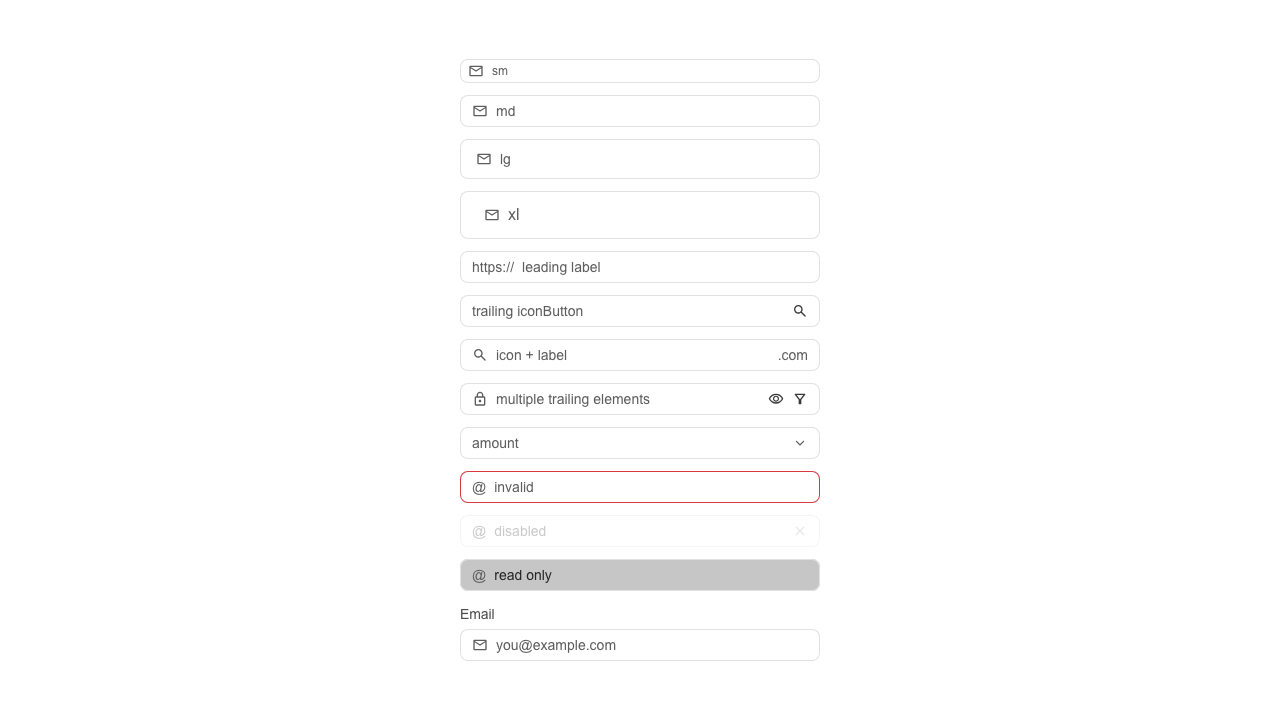
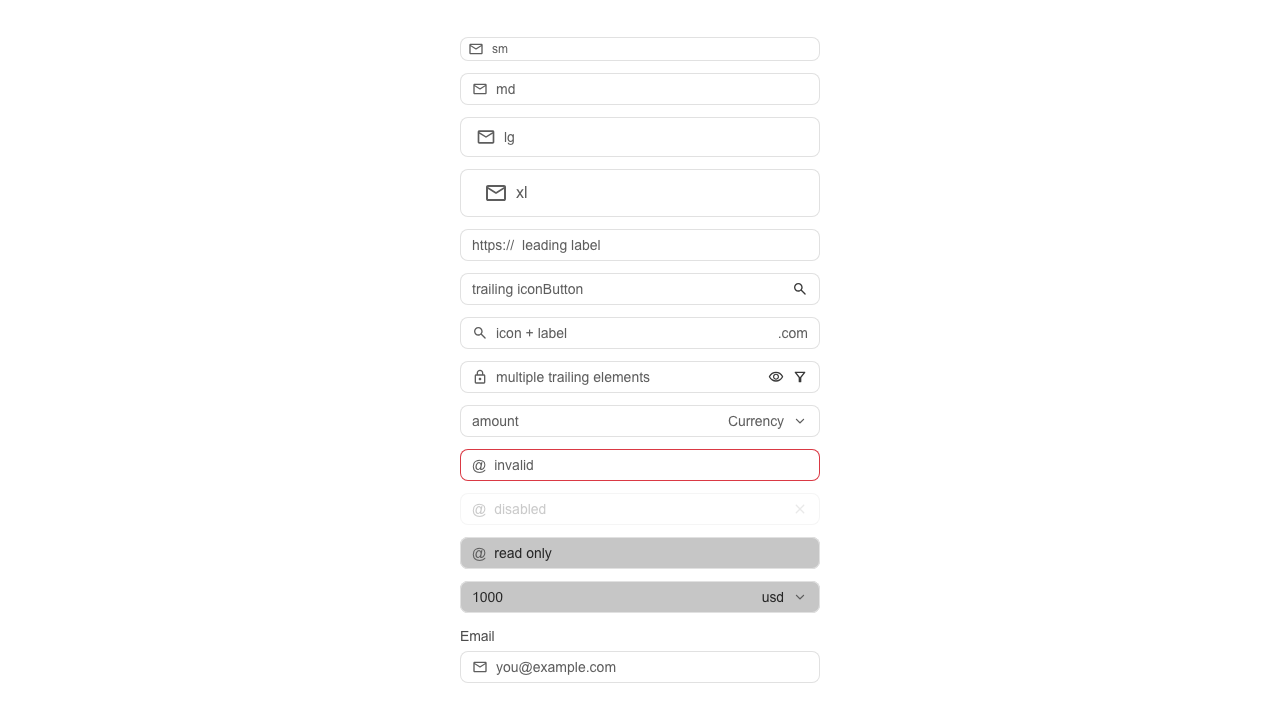
feat(input-group): add IconButton part and mirror readOnly visual via :has
- `InputGroup.IconButton` 파트 신설. 기본 render 가 IconButton 이고 그룹의 compact
  밀도에 맞춰 크기가 정렬된다. `InputGroup.Button` 과 layer/상태 정의를 공유한다.
- readOnly 시각 앵커를 Root 자기 prop 에서 `:has([data-readonly])` 로 전환해
  invalid 와 대칭을 맞췄다. 그룹에 편입한 `Select.Root readOnly` 도 배경이 함께 켜진다.
- addon 에 직접 든 bare 아이콘을 IconButton 아이콘과 같은 compactIconSize 로 스케일.
- 스토리·문서 데모를 새 파트로 dogfooding 하고 시각 회귀 스냅샷 4종을 갱신했다.

Changed region(s): [[0.3438, 0.0611, 0.6562, 0.9472], [0.5625, 0.3667, 0.6562, 0.6417]]

diff --git a/packages/core/src/components/input-group/input-group.stories.tsx b/packages/core/src/components/input-group/input-group.stories.tsx
@@ -80,12 +80,13 @@ export const TestBed: Story = {
             <InputGroup.Root>
                 <InputGroup.Input placeholder="trailing iconButton" />
                 <InputGroup.TrailingAddon>
-                    <InputGroup.Button
+                    <InputGroup.IconButton
                         aria-label="search"
-                        render={<IconButton variant="ghost" colorPalette="contrast" />}
+                        variant="ghost"
+                        colorPalette="contrast"
                     >
                         <SearchOutlineIcon />
-                    </InputGroup.Button>
+                    </InputGroup.IconButton>
                 </InputGroup.TrailingAddon>
             </InputGroup.Root>
 
@@ -104,18 +105,20 @@ export const TestBed: Story = {
                 </InputGroup.LeadingAddon>
                 <InputGroup.Input type="password" placeholder="multiple trailing elements" />
                 <InputGroup.TrailingAddon>
-                    <InputGroup.Button
+                    <InputGroup.IconButton
                         aria-label="Toggle visibility"
-                        render={<IconButton variant="ghost" colorPalette="contrast" />}
+                        variant="ghost"
+                        colorPalette="contrast"
                     >
                         <ViewOnOutlineIcon />
-                    </InputGroup.Button>
-                    <InputGroup.Button
+                    </InputGroup.IconButton>
+                    <InputGroup.IconButton
                         aria-label="Filter"
-                        render={<IconButton variant="ghost" colorPalette="contrast" />}
+                        variant="ghost"
+                        colorPalette="contrast"
                     >
                         <FilterOutlineIcon />
-                    </InputGroup.Button>
+                    </InputGroup.IconButton>
                 </InputGroup.TrailingAddon>
             </InputGroup.Root>
 
@@ -144,12 +147,13 @@ export const TestBed: Story = {
                 <InputGroup.LeadingAddon>@</InputGroup.LeadingAddon>
                 <InputGroup.Input placeholder="disabled" />
                 <InputGroup.TrailingAddon>
-                    <InputGroup.Button
+                    <InputGroup.IconButton
                         aria-label="clear"
-                        render={<IconButton variant="ghost" colorPalette="contrast" />}
+                        variant="ghost"
+                        colorPalette="contrast"
                     >
                         <CloseOutlineIcon />
-                    </InputGroup.Button>
+                    </InputGroup.IconButton>
                 </InputGroup.TrailingAddon>
             </InputGroup.Root>
 
@@ -157,6 +161,21 @@ export const TestBed: Story = {
             <InputGroup.Root readOnly>
                 <InputGroup.LeadingAddon>@</InputGroup.LeadingAddon>
                 <InputGroup.Input value="read only" />
+            </InputGroup.Root>
+
+            {/* readOnly + Select — 그룹이 아니라 Select.Root 에 직접. Trigger 의 data-readonly 를
+                Root 가 :has([data-readonly]) 로 잡아 그룹 배경까지 gray 로 커버 */}
+            <InputGroup.Root>
+                <Select.Root readOnly placeholder="Currency" value="usd">
+                    <InputGroup.Input value="1000" readOnly />
+                    <InputGroup.TrailingAddon>
+                        <InputGroup.Button render={<Select.Trigger />} />
+                    </InputGroup.TrailingAddon>
+                    <Select.Popup>
+                        <Select.Item value="usd">USD</Select.Item>
+                        <Select.Item value="krw">KRW</Select.Item>
+                    </Select.Popup>
+                </Select.Root>
             </InputGroup.Root>
 
             {/* Field 검증 — aria-invalid 를 :has 로 잡아 테두리 danger */}

diff --git a/packages/core/src/components/input-group/input-group.tsx b/packages/core/src/components/input-group/input-group.tsx
@@ -11,6 +11,7 @@ import { resolveStyles } from '~/utils/resolve-styles';
 import type { VaporUIComponentProps } from '~/utils/types';
 
 import { Button } from '../button';
+import { IconButton } from '../icon-button';
 import { TextInput } from '../text-input';
 import type { RootVariants } from './input-group.css';
 import * as styles from './input-group.css';
@@ -89,9 +90,11 @@ export const InputGroupInput = forwardRef<HTMLElement, InputGroupInput.Props>((p
 InputGroupInput.displayName = 'InputGroup.Input';
 
 /* -------------------------------------------------------------------------------------------------
- * InputGroup.Button — 그룹 내 인터랙티브 버튼 래퍼. 기본 render 는 Button,
- * 아이콘 버튼은 render={<IconButton size=.../>}, Select 편입은 render={<Select.Trigger/>} 로.
- * 아이콘 크기는 그룹이 강제하지 않는다 — render 대상이 size prop 으로 스스로 정한다.
+ * InputGroup.Button / InputGroup.IconButton — 그룹 내 인터랙티브 버튼 래퍼.
+ * 둘 다 addon 슬롯 안에 nesting 되며 layer/상태 정의를 공유한다(4-layer 전부 render 대상이 소유).
+ * Button 은 기본 render=Button, IconButton 은 기본 render=IconButton(compact 아이콘). Select 편입은
+ * <InputGroup.Button render={<Select.Trigger/>}> 로. 높이는 그룹이 compact 로 강제하되, 그 외
+ * 시각(면·hover)은 render 대상이 유지한다 — Button/IconButton 은 surface-stripped 대상이 아니다.
  * context 의 disabled 만 OR 병합한다(readOnly 미소비 → password 토글·clear 는 readOnly 에서 생존).
  * -----------------------------------------------------------------------------------------------*/
 
@@ -112,6 +115,31 @@ export const InputGroupButton = forwardRef<HTMLElement, InputGroupButton.Props>(
     });
 });
 InputGroupButton.displayName = 'InputGroup.Button';
+
+/**
+ *
+ * A compact icon button inside the group, such as a clear or password-toggle control, inheriting the group's shared `disabled` state. Renders an `IconButton` (a `<button>`) sized to the group's compact density by default.
+ */
+export const InputGroupIconButton = forwardRef<HTMLElement, InputGroupIconButton.Props>(
+    (props, ref) => {
+        const { className, render, children, ...componentProps } = resolveStyles(props);
+        const group = useInputGroupContext();
+
+        const disabled = (componentProps.disabled as boolean | undefined) || group?.disabled;
+
+        return useRenderElement({
+            ref,
+            render: render ?? <IconButton />,
+            props: {
+                ...componentProps,
+                className: cn(styles.button, className),
+                disabled,
+                children,
+            },
+        });
+    },
+);
+InputGroupIconButton.displayName = 'InputGroup.IconButton';
 
 // 부가요소 슬롯. 그룹 내부 시각은 input-group.css.ts 의 후손 오버라이드가 전담한다.
 const createAddon = (displayName: string) => {
@@ -166,6 +194,14 @@ export namespace InputGroupInput {
 export namespace InputGroupButton {
     export type State = {};
     export type Props = VaporUIComponentProps<'button', State>;
+}
+
+export namespace InputGroupIconButton {
+    export type State = {};
+    // IconButton 의 variant/colorPalette/shape/size 는 그대로 노출하되, render 만 그룹 래퍼가
+    // 소비하는 제네릭 시그니처로 교체한다(IconButton.Props 의 render 는 Button state 에 묶여 있어
+    // useRenderElement 와 어긋난다).
+    export type Props = Omit<IconButton.Props, 'render'> & Pick<InputGroupButton.Props, 'render'>;
 }
 
 export namespace InputGroupAddon {

diff --git a/packages/core/src/components/input-group/input-group.test.tsx b/packages/core/src/components/input-group/input-group.test.tsx
@@ -5,6 +5,7 @@ import { axe } from 'vitest-axe';
 
 import { InputGroup } from '.';
 import { Field } from '../field';
+import { Select } from '../select';
 
 /**
  * 이 스위트는 jsdom 레이어의 책임만 검증한다 — 접근성, DOM 속성(data-*, aria-invalid, :disabled),
@@ -117,10 +118,37 @@ describe('InputGroup', () => {
                 </InputGroup.Root>,
             );
 
-            expect(screen.getByPlaceholderText('amount')).toHaveAttribute('readonly');
+            const input = screen.getByPlaceholderText('amount');
+            expect(input).toHaveAttribute('readonly');
+            // data-readonly 가 곧 Root 의 :has([data-readonly]) 배경 시각의 앵커다.
+            expect(input).toHaveAttribute('data-readonly');
             const button = screen.getByRole('button', { name: 'clear' });
             expect(button).not.toBeDisabled();
             expect(button).not.toHaveAttribute('readonly');
+        });
+
+        it('should disable IconButton when the group is disabled, but not apply readOnly to it', () => {
+            const { rerender } = render(
+                <InputGroup.Root disabled>
+                    <InputGroup.Input placeholder="amount" />
+                    <InputGroup.TrailingAddon>
+                        <InputGroup.IconButton aria-label="clear">x</InputGroup.IconButton>
+                    </InputGroup.TrailingAddon>
+                </InputGroup.Root>,
+            );
+            expect(screen.getByRole('button', { name: 'clear' })).toBeDisabled();
+
+            rerender(
+                <InputGroup.Root readOnly>
+                    <InputGroup.Input placeholder="amount" />
+                    <InputGroup.TrailingAddon>
+                        <InputGroup.IconButton aria-label="clear">x</InputGroup.IconButton>
+                    </InputGroup.TrailingAddon>
+                </InputGroup.Root>,
+            );
+            const iconButton = screen.getByRole('button', { name: 'clear' });
+            expect(iconButton).not.toBeDisabled();
+            expect(iconButton).not.toHaveAttribute('readonly');
         });
 
         it('should render standalone (outside a group) without throwing', () => {
@@ -186,6 +214,26 @@ describe('InputGroup', () => {
             );
 
             expect(screen.getByPlaceholderText('Search')).toBeDisabled();
+        });
+    });
+
+    describe('readOnly visual anchor (:has([data-readonly]) source)', () => {
+        // Root 의 readOnly 배경은 값 컨트롤의 data-readonly 를 :has() 로 관찰해 켠다.
+        // Select 는 그룹으로 전파받지 않고 Select.Root 에 직접 readOnly 를 받으며, 그때 편입된
+        // Trigger 가 data-readonly 를 방출해야 같은 셀렉터가 그룹 배경까지 커버한다.
+        it('should emit data-readonly on the embedded Select trigger when Select.Root is readOnly', () => {
+            render(
+                <InputGroup.Root>
+                    <Select.Root readOnly placeholder="Currency">
+                        <InputGroup.Input placeholder="amount" />
+                        <InputGroup.TrailingAddon>
+                            <InputGroup.Button render={<Select.Trigger />} />
+                        </InputGroup.TrailingAddon>
+                    </Select.Root>
+                </InputGroup.Root>,
+            );
+
+            expect(screen.getByRole('combobox')).toHaveAttribute('data-readonly');
         });
     });
 

diff --git a/packages/core/src/components/input-group/input-group.css.ts b/packages/core/src/components/input-group/input-group.css.ts
@@ -34,11 +34,15 @@ export const root = componentRecipe({
             vars: { [boxShadowColor]: vars.color.border.normal },
 
             selectors: {
-                // invalid 는 Root prop 이 아니라 자식 컨트롤의 aria-invalid 로만 켠다(시각 = 테두리).
+                // invalid·readOnly 는 Root prop 이 아니라 값 컨트롤의 상태를 :has() 로 관찰해 켠다.
+                // 그려지는 면이 Root 하나뿐이라(값 컨트롤은 surface-stripped) 시각은 그룹 레벨이 필연.
+                // invalid → 자식 aria-invalid(테두리 danger), readOnly → 자식 data-readonly(배경 gray).
                 [when.invalid(`&:has([aria-invalid='true'])`)]: {
                     vars: { [boxShadowColor]: vars.color.border.danger },
                 },
-                [`${when.readonly()}`]: { backgroundColor: vars.color.gray['200'] },
+                [when.readonly(`&:has([data-readonly])`)]: {
+                    backgroundColor: vars.color.gray['200'],
+                },
                 [`${DISABLED}`]: { opacity: 0.32 },
             },
         },
@@ -159,6 +163,18 @@ export const button = style({
 // max(16px,50%)(components 레이어)를 utilities 로 덮는다. 앵커가 button 로컬 클래스라
 // 그룹 밖으로 전파되지 않는다. Select.Trigger(combobox) 는 chevron 을 자체 렌더하므로 제외.
 globalStyle(`${button}:not(${SELECT_TRIGGER}) > :is(svg, img)`, {
+    '@layer': {
+        [layers.utilities]: {
+            width: compactIconSize,
+            height: compactIconSize,
+        },
+    },
+});
+
+// addon 에 직접 든 bare 아이콘(예: leading 검색 아이콘)도 IconButton 아이콘과 같은
+// compactIconSize 로 맞춘다. `>` 직접 자식만 잡으므로 addon 안에 nesting 된 버튼의 아이콘
+// (addon > button > svg)은 위 button 규칙이 전담하고 여기선 건드리지 않는다.
+globalStyle(`${addon} > :is(svg, img)`, {
     '@layer': {
         [layers.utilities]: {
             width: compactIconSize,

diff --git a/apps/website/src/components/demo/examples/input-group/input-group-size.tsx b/apps/website/src/components/demo/examples/input-group/input-group-size.tsx
@@ -1,4 +1,4 @@
-import { HStack, IconButton, InputGroup, Text, VStack } from '@vapor-ui/core';
+import { HStack, InputGroup, Text, VStack } from '@vapor-ui/core';
 import { CloseOutlineIcon, SearchOutlineIcon } from '@vapor-ui/icons';
 
 const SIZES = ['sm', 'md', 'lg', 'xl'] as const;
@@ -17,12 +17,13 @@ export default function InputGroupSize() {
                         </InputGroup.LeadingAddon>
                         <InputGroup.Input placeholder={size} />
                         <InputGroup.TrailingAddon>
-                            <InputGroup.Button
+                            <InputGroup.IconButton
                                 aria-label="clear"
-                                render={<IconButton variant="ghost" colorPalette="contrast" />}
+                                variant="ghost"
+                                colorPalette="contrast"
                             >
                                 <CloseOutlineIcon />
-                            </InputGroup.Button>
+                            </InputGroup.IconButton>
                         </InputGroup.TrailingAddon>
                     </InputGroup.Root>
                 </HStack>

diff --git a/apps/website/src/components/demo/examples/input-group/input-group-addon.tsx b/apps/website/src/components/demo/examples/input-group/input-group-addon.tsx
@@ -1,4 +1,4 @@
-import { IconButton, InputGroup, VStack } from '@vapor-ui/core';
+import { InputGroup, VStack } from '@vapor-ui/core';
 import { CopyOutlineIcon, SearchOutlineIcon } from '@vapor-ui/icons';
 
 export default function InputGroupAddon() {
@@ -30,12 +30,13 @@ export default function InputGroupAddon() {
             <InputGroup.Root>
                 <InputGroup.Input defaultValue="https://vapor-ui.dev" />
                 <InputGroup.TrailingAddon>
-                    <InputGroup.Button
+                    <InputGroup.IconButton
                         aria-label="Copy link"
-                        render={<IconButton variant="ghost" colorPalette="contrast" />}
+                        variant="ghost"
+                        colorPalette="contrast"
                     >
                         <CopyOutlineIcon />
-                    </InputGroup.Button>
+                    </InputGroup.IconButton>
                 </InputGroup.TrailingAddon>
             </InputGroup.Root>
         </VStack>

diff --git a/packages/core/src/components/input-group/index.parts.ts b/packages/core/src/components/input-group/index.parts.ts
@@ -4,4 +4,5 @@ export {
     InputGroupTrailingAddon as TrailingAddon,
     InputGroupInput as Input,
     InputGroupButton as Button,
+    InputGroupIconButton as IconButton,
 } from './input-group';

diff --git a/.changeset/input-group-icon-button.md b/.changeset/input-group-icon-button.md
@@ -1,0 +1,15 @@
+---
+'@vapor-ui/core': minor
+---
+
+`InputGroup.IconButton`을 추가했습니다. clear·비밀번호 토글처럼 그룹 안에 자주 들어가는 아이콘 버튼을 위한 편의 파트로, 기본 `render`가 `IconButton`이고 그룹의 compact 밀도에 맞춰 크기가 정렬됩니다. `InputGroup.Button`과 같은 레이어·상태 정의를 공유합니다.
+
+```tsx
+<InputGroup.TrailingAddon>
+    <InputGroup.IconButton aria-label="clear" variant="ghost">
+        <CloseOutlineIcon />
+    </InputGroup.IconButton>
+</InputGroup.TrailingAddon>
+```
+
+또한 `readOnly` 시각을 `invalid`와 대칭으로 맞췄습니다. 그룹 배경(gray)은 이제 값 컨트롤의 `data-readonly`를 `:has()`로 관찰해 켜집니다. `<InputGroup.Root readOnly>`는 그대로 동작하고, 그룹에 편입한 `<Select.Root readOnly>`의 읽기전용 상태도 그룹 배경이 함께 반영합니다.
